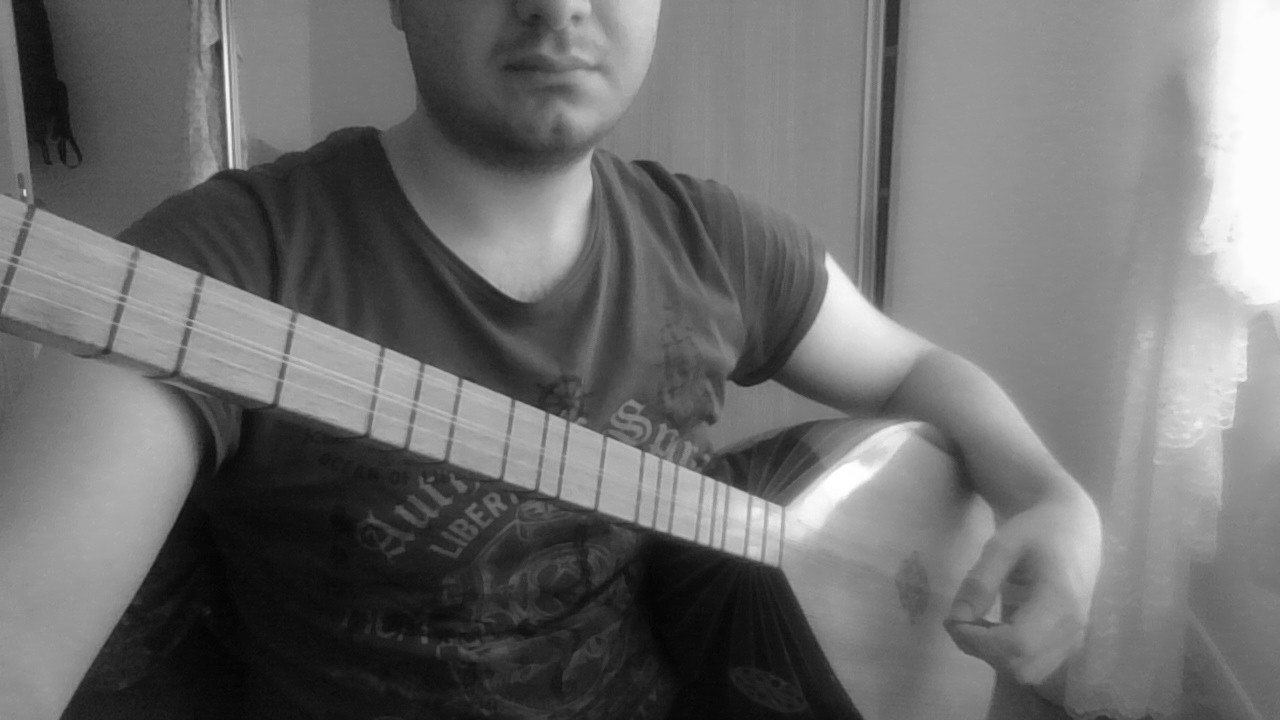
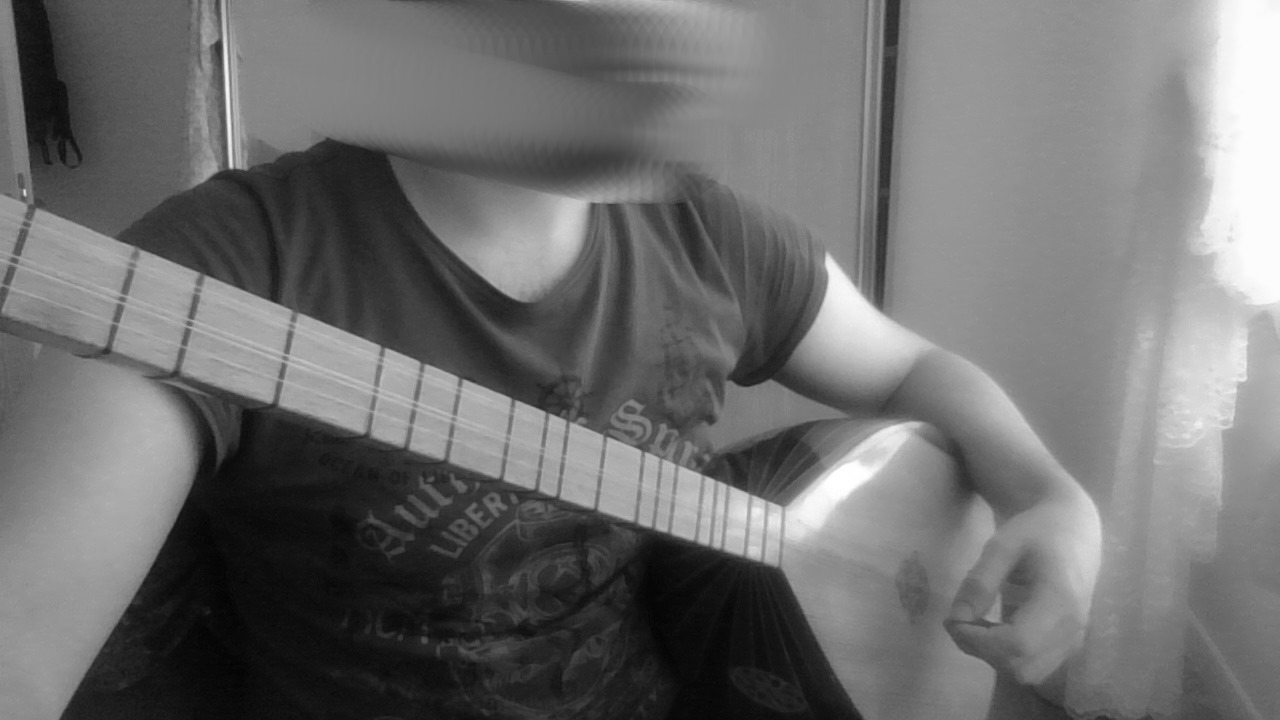
gaussian blur implementation

Changed region(s): [[0.25, 0.0, 0.5938, 0.3056]]

diff --git a/filters.c b/filters.c
@@ -9,6 +9,114 @@
 
 #include<time.h>
 
+#include <math.h>//pow,M_PI, M_E
+
+float* gaussfilt2d(int size, float sigma){
+
+		float SQUARE_SIGMA=sigma*sigma;
+
+        float COEFF_ROOT=1/(2*M_PI*SQUARE_SIGMA);
+
+        int range_=(size-1)/2;
+        
+        float *kernel;
+        kernel=(float*)malloc(pow(size,2)*sizeof(float));
+        
+        
+        //COEFF_ROOT is also center value
+        //if we want to normalize, divide all to this
+        int idx=0;
+		//calculate 2d gauss kernel
+		//ref:https://en.wikipedia.org/wiki/Gaussian_blur
+        for(int y=-range_; y< range_+1; y++){
+
+            for(int x=-range_; x< range_+1; x++){
+
+                float calculated=COEFF_ROOT*pow(M_E,-(x*x + y*y)/(2*SQUARE_SIGMA));
+
+                kernel[idx++]=calculated/COEFF_ROOT;
+                
+            }
+        }
+        return kernel;
+        
+}
+//pad the image and return the address of padded buffer
+uint8_t* gaussBlur(uint8_t *buffer,int width,int height,int fsize,float fsigma){
+	
+	//open new image array to apply filter
+	int new_w=width-fsize+1;
+	int new_h=height-fsize+1;
+	short color_=3;//RGB color array
+	
+	uint8_t *apply;//new array for filtered image
+    float   *kernel;//our kernel to calculate distribution ratio
+
+	apply=(uint8_t*)calloc(new_w*new_h*color_ ,sizeof(uint8_t));
+	
+    kernel=gaussfilt2d(fsize,fsigma);//(float*)malloc(fsize*fsize*sizeof(float));
+
+	int i=0,j=0,idx=0,a_idx=0;
+	
+    /*determine initial start index by inserting center of filter 
+    to first element of array(by skipping pads)
+    */
+	int apply_idx=((width+1)*(fsize-1)/2)*color_;
+	
+	while (i<new_h){
+		
+		j=j%new_w;
+		while (j<new_w*color_){
+
+                        /*placing the center of the kernel
+                        to the original image array*/
+						idx=i*width*color_+j;
+                        
+                        //to access our new image array
+                        a_idx=i*new_w*color_+j;
+
+                        int ken[fsize*fsize*3];
+                            
+                        //here we getting buffer index offsets
+                        //to process later on
+                        for(int y=0; y<fsize; y++){
+
+                            for(int x=0; x<fsize*3; x++){
+
+                            	int idx2=y*width*color_+x;
+                            	//printf(" ken[%d]= idx+ idx2:%d+ %d\n",y*fsize*3+x,idx,idx2);
+                            	ken[y*fsize*3+x]=idx+idx2;//keeping indexes to be processed
+                       		}
+						}
+                        //calcultaing the sum of indexes with kernel
+                        //then placing manipulated data to new buffer
+                        float sum[3];
+                        for(int y=0; y< fsize*fsize*3; y+=3){
+                            int c_idx=y/3;
+                            
+                            float coeff=kernel[c_idx];//getting coefficient from kernel
+                            
+                            sum[0]+=buffer[ ken[ y ] ];//*coeff*4;//R values
+                            sum[1]+=buffer[ ken[y+1] ];//*coeff*4;//G values
+                            sum[2]+=buffer[ ken[y+2] ];//*coeff*4;//B values
+                        }
+                        
+			//transfer manipulated data to appropriate location of new array
+			apply[  a_idx  ]= sum[0]/(fsize*fsize);
+            apply[ a_idx+1 ]= sum[1]/(fsize*fsize);
+            apply[ a_idx+2 ]= sum[2]/(fsize*fsize);
+            
+			sum[0]=0;
+			sum[1]=0;
+			sum[2]=0;
+			j+=color_;
+		}
+		i++;
+	}
+	
+	return apply;//return processed image
+}
+//--------------------------------------------------------
 int write_time(char *buff,int buffsize){
 	time_t rawtime;
 	struct tm *local_curr;
@@ -23,7 +131,6 @@ int write_time(char *buff,int buffsize){
 	return 0;
 	
 }
-
 //pad the image and return the address of padded buffer
 uint8_t* pad(uint8_t *buffer,int width,int height,short top_pad,short right_pad, short bottom_pad, short left_pad){
 	
@@ -250,12 +357,12 @@ int decode_rgb(unsigned char *buffer,int buffsize,int width,int height) {
 	
 	printf(	"------------FILTERS------------\n"
 			"1. binary\n2. inverse\n3. grayscale\n"
-			"4. zero padding\n"
+			"4. zero padding\n5. gauss blur\n"
 			"------------FILTERS------------\n");
 			
 	printf("enter the filter num to apply ('any' for no filter): ");
 	scanf(" %c",&c);
-
+	
 	switch( c ){
 		case '1':{
 			out_img_name="binary_filtered";
@@ -287,6 +394,22 @@ int decode_rgb(unsigned char *buffer,int buffsize,int width,int height) {
 			
 			width+=2*pad_w;
 			height+=2*pad_h;
+			processed_size=width*height*3;
+			break;
+		}
+		case '5':{
+			out_img_name="gauss_blur";
+			
+			uint8_t *buffer_;
+			
+			int fsize=11;
+			buffer_=gaussBlur(processed_buffer,width,height, fsize, 1.0);//sample zero padding
+
+			free(processed_buffer);
+			processed_buffer=buffer_;
+			
+			width=width-fsize+1;
+			height=height-fsize+1;
 			processed_size=width*height*3;
 			break;
 		}

diff --git a/filters.h b/filters.h
@@ -11,4 +11,6 @@ int decode_rgb(uint8_t*,int ,int ,int );
 int save2ppm(uint8_t*,int ,int ,int ,char*);
 int save2jpeg(unsigned char *,int ,int ,int ,char *,int );
 uint8_t* pad(uint8_t*,int width, int height, int , int ,int ,int);
+float* gaussfilt2d(int size, float sigma);
+uint8_t* gaussBlur(uint8_t *buffer,int width,int height,int fsize,float fsigma);
 #endif

diff --git a/README.md b/README.md
@@ -2,7 +2,7 @@
 ### take a photograph from laptop webcam.
 
 - Program simply uses linux/videodev2.h library (v4l2module) to access camera device, which comes as built-in on linux kernel,
-- Then applies filters accorfing to user's chices.
+- Then applies filters according to user's chices.
 ***
 system | specs | of development|
 --- | --- | --- |
@@ -10,7 +10,12 @@ _Environment_| Ubuntu 22.04| gcc 11.3.0
 _kernel_  | 5.19.0-45-generic_
 _External libraries_| libjpeg-turbo8-dev
   ***
-- Added filters: binary,grayscale,inverse, zero padding. Here is sample outputs for filters.
+- Added filters:
+  1. binary
+  2. grayscale
+  3. inverse
+  4. zero padding
+  5. gauss blur. Here is sample outputs for filters.
   - Note: Image buffer is assuming as 1 Dimensional.
 # binary filter
 ![sample binary filter](https://github.com/ibo52/v4l2-camera-photo/blob/main/sample%20images/binary.jpg)
@@ -20,7 +25,5 @@ _External libraries_| libjpeg-turbo8-dev
 ![sample grayed filter](https://github.com/ibo52/v4l2-camera-photo/blob/main/sample%20images/grayscaled.jpg)
 #zero padding
 ![sample zero padding](https://github.com/ibo52/v4l2-camera-photo/blob/main/sample%20images/zero_padded.jpg)
-
->>>>>>> b70c6ce (zero pad implementation)
-=======
->>>>>>> b70c6ceef281365833b38e38b6fa59961fb2c6dc
+#gaussian blur (with 11x11 kernel)
+![sample blur](https://github.com/ibo52/v4l2-camera-photo/blob/main/sample%20images/gauss_blur.jpg)
